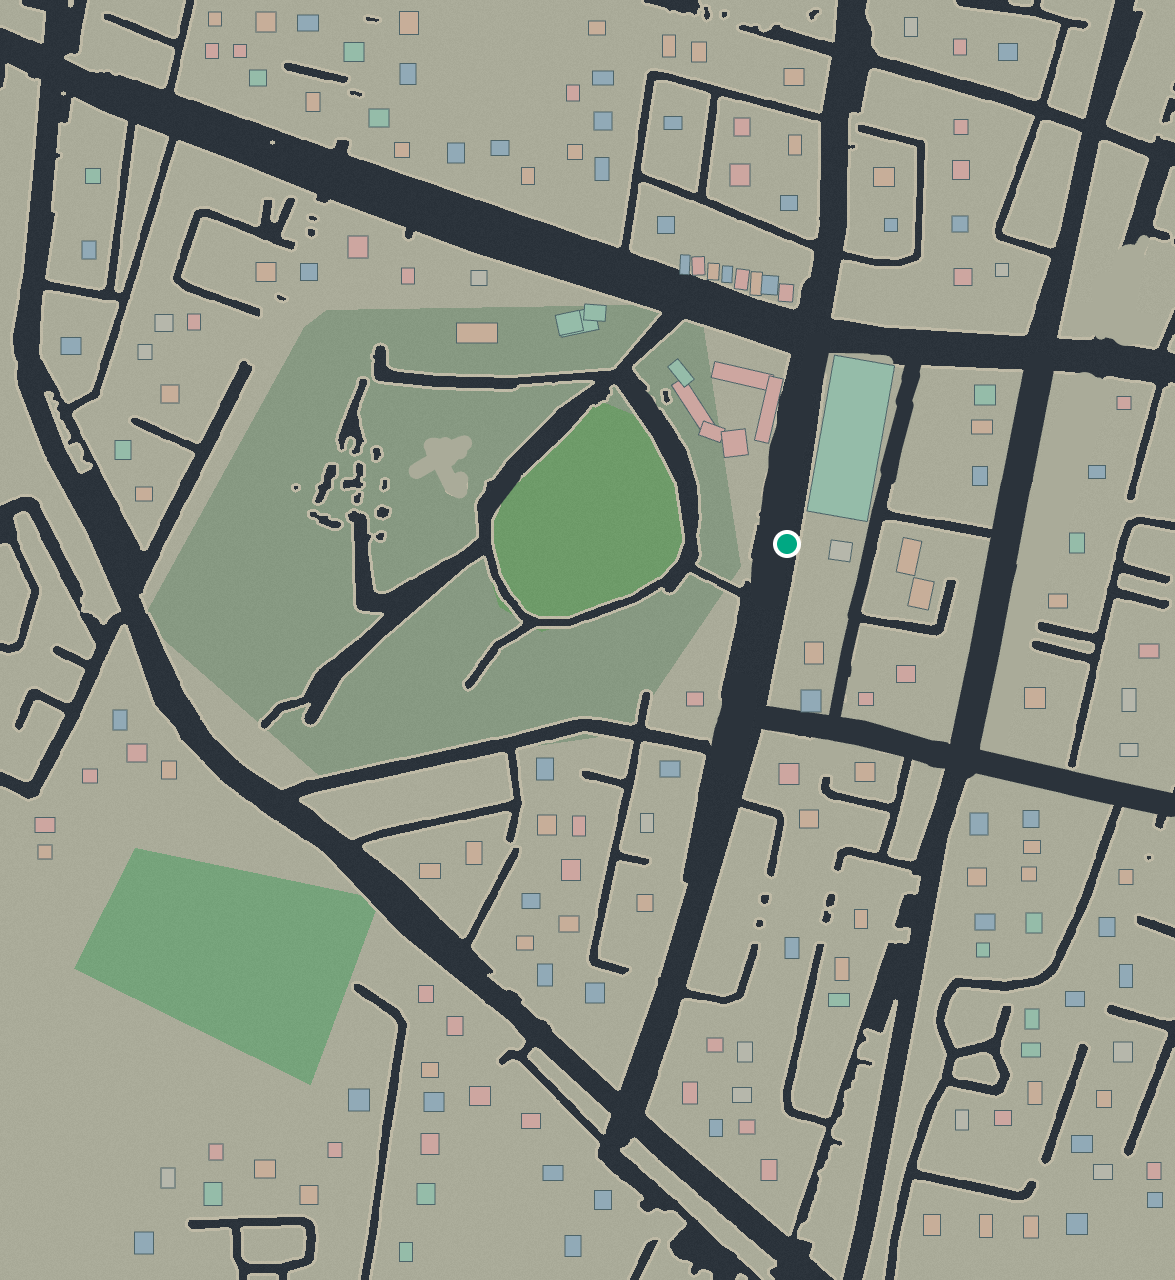
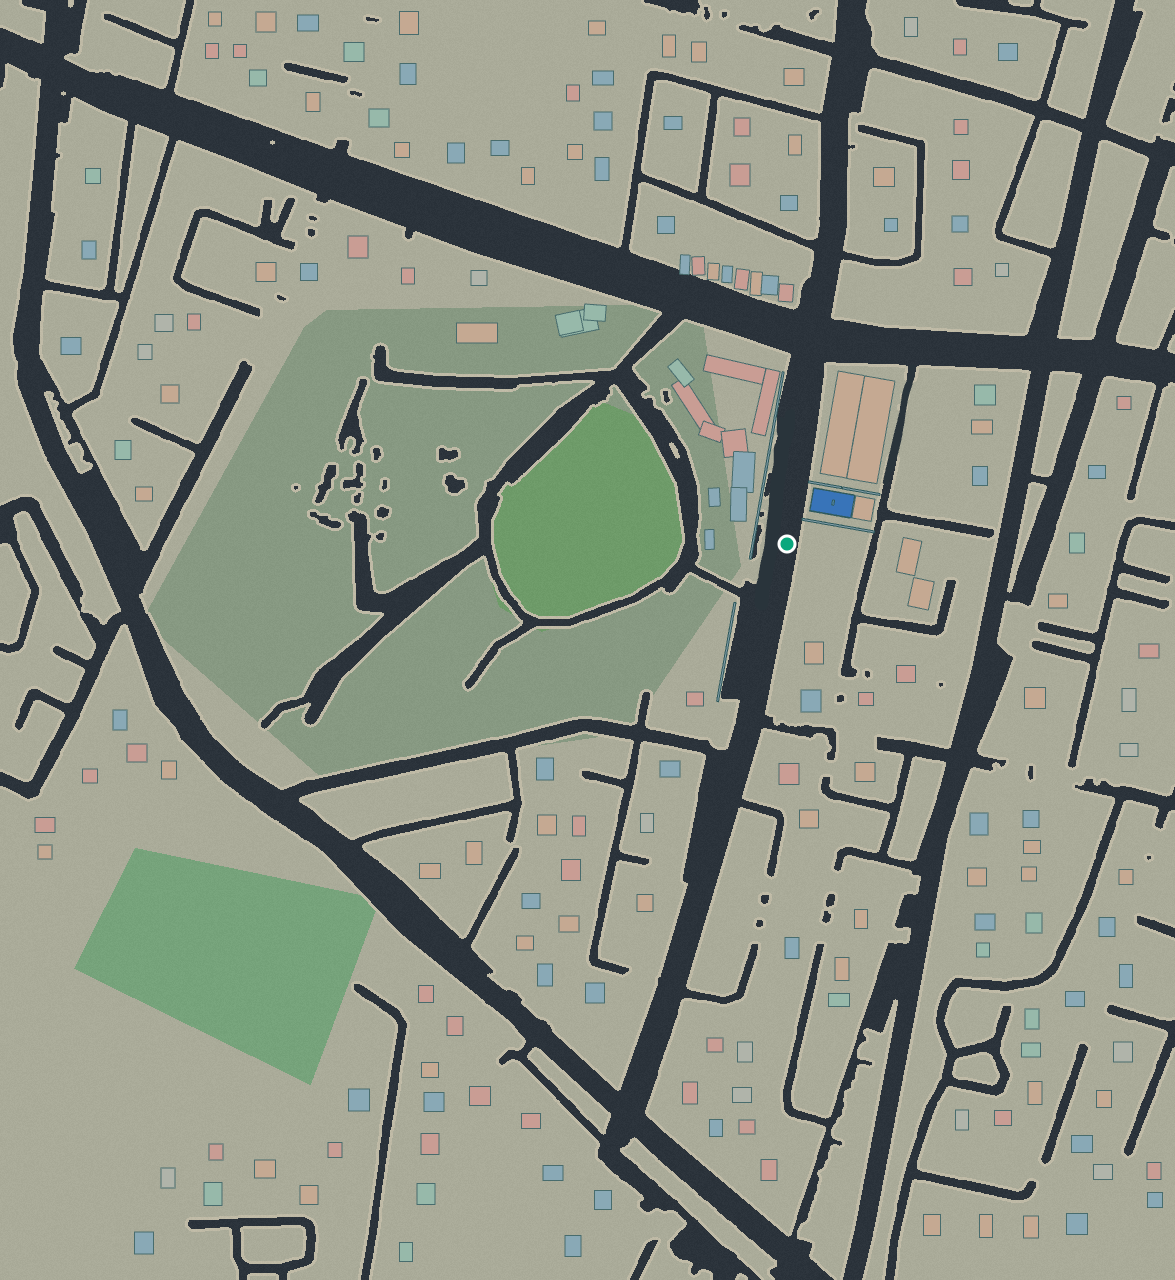
new update in map

Changed region(s): [[0.5821, 0.1875, 1.0, 0.6562], [0.337, 0.3438, 0.3983, 0.4062]]

diff --git a/game.js b/game.js
@@ -1,4 +1,4 @@
-/* NASHIK: FIRST DRIVE — BUILDING BLOCKOUT / v0.7
+/* NASHIK: FIRST DRIVE — MOBILE / OWNER STUDIO 2.0
    Road surfaces were traced from the user-supplied College Road map screenshot.
    This is screenshot-coordinate accurate, NOT verified survey/GPS geometry.
    It contains no Google basemap, imagery, tiles or logos.
@@ -10,7 +10,7 @@
   const $=id=>document.getElementById(id), cv=$('gl');
   const gl=cv.getContext('webgl2',{alpha:false,depth:true,antialias:true,powerPreference:'high-performance'});
   if(!gl){$('error').textContent='WebGL 2 is required. Try Chrome with hardware acceleration enabled.';$('error').hidden=false;return;}
-  const W=1175,H=1280,K=.65;
+  const W=1175,H=1280,K=.65,S=window.NashikShapes;
   let mapEdits={spawn:[787,544,180],roadStrokes:[]};
   const wx=u=>(u-W/2)*K, wz=v=>(v-H/2)*K;
   const uvx=x=>x/K+W/2, uvy=z=>z/K+H/2;
@@ -41,14 +41,39 @@
   const vao=gl.createVertexArray();gl.bindVertexArray(vao);const buf=gl.createBuffer();gl.bindBuffer(gl.ARRAY_BUFFER,buf);gl.bufferData(gl.ARRAY_BUFFER,new Float32Array(verts),gl.STATIC_DRAW);const ix=gl.createBuffer();gl.bindBuffer(gl.ELEMENT_ARRAY_BUFFER,ix);gl.bufferData(gl.ELEMENT_ARRAY_BUFFER,new Uint16Array(inds),gl.STATIC_DRAW);gl.enableVertexAttribArray(0);gl.vertexAttribPointer(0,3,gl.FLOAT,false,24,0);gl.enableVertexAttribArray(1);gl.vertexAttribPointer(1,3,gl.FLOAT,false,24,12);gl.bindVertexArray(vao);
   function cube(x,y,z,sx,sy,sz,col,yaw=0){gl.uniformMatrix4fv(U.model,false,transform(x,y,z,sx,sy,sz,yaw));gl.uniform3fv(U.color,col);gl.drawElements(gl.TRIANGLES,inds.length,gl.UNSIGNED_SHORT,0);}
   const colors=[[.79,.74,.66],[.66,.7,.75],[.76,.65,.59],[.59,.70,.67],[.74,.73,.69]], roof=[.49,.53,.56],dark=[.15,.20,.23],carBody=[.13,.70,.59],glass=[.45,.68,.72],wheel=[.09,.13,.16],headlight=[.94,.89,.71];
-  let blocks=[],loaded=false,groundTexture=null;
+  let blocks=[],assets=[],loaded=false,groundTexture=null;
+  const polyMeshCache=new Map();
+  function meshFor(shape,points){
+    const key=shape+JSON.stringify(points||[]);if(polyMeshCache.has(key))return polyMeshCache.get(key);
+    const poly=S.footprint(shape,points),tri=S.triangleIndices(poly);
+    if(tri.length<3)return null;
+    const vert=[],faces=[];
+    const push=(pos,nor)=>{vert.push(...pos,...nor);return vert.length/6-1;};
+    for(const idx of tri){const q=poly[idx];let v=push([q[0],.5,q[1]],[0,1,0]);faces.push(v);}
+    for(const idx of tri){const q=poly[idx];let v=push([q[0],-.5,q[1]],[0,-1,0]);faces.push(v);}
+    for(let i=0;i<poly.length;i++){let a=poly[i],b=poly[(i+1)%poly.length];const dx=b[0]-a[0],dz=b[1]-a[1],len=Math.hypot(dx,dz)||1,n=S.area(poly)>0?[dz/len,0,-dx/len]:[-dz/len,0,dx/len];
+      const start=vert.length/6;push([a[0],-.5,a[1]],n);push([b[0],-.5,b[1]],n);push([b[0],.5,b[1]],n);push([a[0],.5,a[1]],n);
+      faces.push(start,start+1,start+2,start,start+2,start+3);
+    }
+    const vao=gl.createVertexArray();gl.bindVertexArray(vao);
+    const vb=gl.createBuffer();gl.bindBuffer(gl.ARRAY_BUFFER,vb);gl.bufferData(gl.ARRAY_BUFFER,new Float32Array(vert),gl.STATIC_DRAW);
+    const eb=gl.createBuffer();gl.bindBuffer(gl.ELEMENT_ARRAY_BUFFER,eb);gl.bufferData(gl.ELEMENT_ARRAY_BUFFER,new Uint16Array(faces),gl.STATIC_DRAW);
+    gl.enableVertexAttribArray(0);gl.vertexAttribPointer(0,3,gl.FLOAT,false,24,0);
+    gl.enableVertexAttribArray(1);gl.vertexAttribPointer(1,3,gl.FLOAT,false,24,12);
+    gl.bindVertexArray(null);const mesh={vao,count:faces.length};polyMeshCache.set(key,mesh);return mesh;
+  }
+  function polygonBuilding(x,y,z,w,h,d,col,rot,mesh){if(!mesh)return;gl.disable(gl.CULL_FACE);gl.bindVertexArray(mesh.vao);gl.uniformMatrix4fv(U.model,false,transform(x,y,z,w,h,d,rot));gl.uniform3fv(U.color,col);gl.drawElements(gl.TRIANGLES,mesh.count,gl.UNSIGNED_SHORT,0);gl.bindVertexArray(vao);gl.enable(gl.CULL_FACE);}
+  function buildingSolid(b,y,h,col,extra=0){if(b.shape==='rect'||b.shape==='square')cube(b.x,y,b.z,b.w+extra,h,b.d+extra,col,b.yaw);
+    else polygonBuilding(b.x,y,b.z,b.w+extra,h,b.d+extra,col,b.yaw,b.mesh);}
+
   const img=new Image();
   const mapPromise=fetch('map_edits.json?v='+Date.now()).then(r=>r.ok?r.json():{}).catch(()=>({}));
   const blocksPromise=fetch('blocks.json?v='+Date.now()).then(r=>r.ok?r.json():Promise.reject(new Error('Building data missing'))).then(data=>{
-    blocks=data.map(([u,v,w,d,h,c,angle=0])=>({x:wx(u),z:wz(v),w:w*K,d:d*K,h,c,yaw:angle*rad}));
+    blocks=data.map(([u,v,w,d,h,c,angle=0,floors,kind='mixed',floorHeight,shape='rect',points=[]])=>({x:wx(u),z:wz(v),w:w*K,d:d*K,h,c,yaw:angle*rad,floors:Math.max(1,Math.round(floors||h/3.2)),kind,floorHeight:floorHeight||3.2,shape,points,mesh:(shape==='rect'||shape==='square')?null:meshFor(shape,points)}));
   });
+  const assetsPromise=fetch('assets.json?v='+Date.now()).then(r=>r.ok?r.json():[]).then(data=>{assets=Array.isArray(data)?data:[]});
   const imagePromise=new Promise((resolve,reject)=>{img.onload=resolve;img.onerror=()=>reject(new Error('terrain.png missing'));img.src='terrain.png';});
-  Promise.all([mapPromise,blocksPromise,imagePromise]).then(([edits])=>{
+  Promise.all([mapPromise,blocksPromise,assetsPromise,imagePromise]).then(([edits])=>{
     if(edits&&typeof edits==='object')mapEdits={...mapEdits,...edits};
     const paint=document.createElement('canvas');paint.width=W;paint.height=H;const ctx=paint.getContext('2d');
     ctx.drawImage(img,0,0,W,H);
@@ -78,23 +103,78 @@
     if(Math.abs(x-b.x)>Math.max(b.w,b.d)+pad||Math.abs(z-b.z)>Math.max(b.w,b.d)+pad)continue;
     const co=Math.cos(b.yaw),si=Math.sin(b.yaw),dx=x-b.x,dz=z-b.z;
     const localX=co*dx-si*dz,localZ=si*dx+co*dz;
-    if(Math.abs(localX)<b.w*.5+pad&&Math.abs(localZ)<b.d*.5+pad)return true;
+    if(b.shape==='rect'||b.shape==='square'){if(Math.abs(localX)<b.w*.5+pad&&Math.abs(localZ)<b.d*.5+pad)return true;}else if(S.pointInside(localX/b.w,localZ/b.d,S.footprint(b.shape,b.points)))return true;
   }return false;}
   function insideBounds(x,z){return Math.abs(x)<W*K*.5-5 && Math.abs(z)<H*K*.5-5;}
   function canMove(x,z,pad){return insideBounds(x,z)&&!hitBuilding(x,z,pad);}
-  // Static fuel station landmark is a deliberately simple block beside the starting point.
-  function drawPump(){const x=wx(815),z=wz(541);
-    cube(x,2.65,z,24,0.65,15,[.17,.39,.70]);cube(x,2.20,z,24,.18,15,[.98,.77,.28]);
-    for(const dx of [-9,9])for(const dz of [-5,5])cube(x+dx,1.2,z+dz,.65,2.5,.65,[.82,.82,.77]);
-    for(const dz of [-4,4])cube(x,0.84,z+dz,1.4,1.65,.9,[.30,.43,.57]);
+  // Every street object comes from editable assets.json. No hardcoded petrol pump.
+  const colorMat=[[.20,.44,.74],[.16,.52,.43],[.69,.46,.34],[.66,.60,.50],[.54,.63,.71]];
+  function localPart(cx,cz,rot,lx,lz,h,sx,sy,sz,col){
+    const co=Math.cos(rot),si=Math.sin(rot);
+    cube(cx+co*lx+si*lz,h,cz-si*lx+co*lz,sx,sy,sz,col,rot);
+  }
+  function drawAsset(a){
+    const x=wx(a.x),z=wz(a.y),r=(a.rot||0)*rad,w=Math.max(.2,a.w*K),d=Math.max(.2,a.d*K),h=Math.max(.2,a.h);
+    const mat=colorMat[a.color]||colorMat[0];
+    if(a.type==='forecourt'){
+      cube(x,.07,z,w,.14,d,[.65,.67,.63],r);
+      cube(x,.151,z,Math.max(.1,w-.4),.014,Math.max(.1,d-.4),[.75,.74,.67],r);
+    }else if(a.type==='canopy'){
+      localPart(x,z,r,0,0,h,w,.40,d,[.18,.39,.70]);
+      localPart(x,z,r,0,0,h-.28,w,.16,d,[.96,.77,.22]);
+      for(const dx of [-w*.39,w*.39])for(const dz of [-d*.35,d*.35])
+        localPart(x,z,r,dx,dz,(h-.55)/2,.38,h-.65,.38,[.82,.84,.82]);
+    }else if(a.type==='dispenser'){
+      cube(x,h/2,z,Math.max(1,w),h,Math.max(.6,d),[.20,.34,.51],r);
+      cube(x,h*.70,z,Math.max(.9,w+.1),h*.20,Math.max(.7,d+.15),[.90,.92,.93],r);
+      cube(x,h*.48,z,Math.max(.3,w+.14),h*.10,Math.max(.5,d+.12),[.86,.70,.28],r);
+    }else if(a.type==='pylon'){
+      cube(x,h/2,z,w*.44,h,d*.6,[.83,.85,.84],r);
+      cube(x,h*.78,z,w,h*.32,d,[.18,.40,.69],r);
+      cube(x,h*.79,z,w+.04,h*.10,d+.06,[.94,.75,.24],r);
+    }else if(a.type==='tree'){
+      const trunk=h*.55, canopy=Math.max(.8,w);
+      cube(x,trunk/2,z,Math.max(.22,canopy*.095),trunk,Math.max(.22,canopy*.095),[.39,.30,.20]);
+      const foliage=a.color===1?[.20,.39,.30]:a.color===2?[.31,.49,.29]:[.23,.45,.32];
+      const cy=trunk+(h-trunk)*.45;
+      cube(x,cy,z,canopy*.62,h-trunk,canopy*.65,foliage);
+      cube(x+canopy*.23,cy-.20,z,canopy*.57,(h-trunk)*.74,canopy*.53,foliage);
+      cube(x-canopy*.23,cy-.28,z+canopy*.18,canopy*.53,(h-trunk)*.76,canopy*.47,foliage);
+    }else if(a.type==='palm'){
+      cube(x,h*.45,z,.25,h*.9,.25,[.48,.36,.24]);
+      for(let i=0;i<6;i++){const ang=i*Math.PI/3;
+        cube(x+Math.cos(ang)*w*.28,h*.93,z+Math.sin(ang)*w*.28,w*.7,.17,.46,[.23,.50,.30],ang);
+      }
+    }else if(a.type==='bush'){
+      cube(x,.25,z,w*.65,.50,d*.65,[.18,.41,.24],r);cube(x,h*.55,z,w,h*.8,d,[.26,.51,.30],r);
+    }else if(a.type==='park'){
+      polygonBuilding(x,.045,z,w,.09,d,[.28,.47,.28],r,meshFor(a.shape||'rect',[]));
+    }else if(a.type==='pond'){
+      polygonBuilding(x,.045,z,w,.09,d,[.18,.52,.69],r,meshFor(a.shape||'circle',[]));
+    }else if(a.type==='parking'){
+      polygonBuilding(x,.045,z,w,.09,d,[.30,.35,.36],r,meshFor(a.shape||'rect',[]));
+      for(let i=-2;i<=2;i++)localPart(x,z,r,i*w/6,0,.10,.08,.03,d*.82,[.83,.84,.79]);
+    }else if(a.type==='wall'||a.type==='fence'){
+      if(a.type==='wall')cube(x,h*.5,z,w,h,Math.min(d,1.7),[.66,.69,.65],r);
+      else{cube(x,h*.78,z,w,.13,.15,[.43,.49,.47],r);cube(x,h*.35,z,w,.13,.15,[.43,.49,.47],r);
+        for(let j=-2;j<=2;j++)localPart(x,z,r,j*w*.22,0,h*.5,.15,h,.15,[.47,.52,.50]);}
+    }else if(a.type==='billboard'){
+      cube(x,h*.50,z,.20,h,.20,[.42,.44,.46],r);cube(x,h*.87,z,w,h*.23,d,[.20,.35,.44],r);
+    }else if(a.type==='bench'){
+      cube(x,.57,z,w,.18,d,[.43,.31,.24],r);cube(x,1.05,z-d*.38,w,.9,.13,[.43,.31,.24],r);
+    }else if(a.type==='lamp'){
+      cube(x,h*.5,z,.22,h,.22,[.48,.53,.54]);
+      cube(x+.65,h,z,1.6,.18,.3,[.41,.47,.50]);
+      cube(x+1.15,h-.15,z,.8,.12,.4,[.95,.88,.65]);
+    }
   }
   function drawCar(){const x=car.x,z=car.z,a=car.yaw;const s=Math.sin(a),c=Math.cos(a);
     const part=(side,forward,height,sw,sh,sd,color)=>{const X=x+c*side+s*forward,Z=z-s*side+c*forward;cube(X,height,Z,sw,sh,sd,color,a);};
-    part(0,0,.85,2.15,1.2,4.6,carBody);part(0,-.30,1.66,1.80,.70,2.75,carBody);part(0,.58,1.76,1.80,.52,.13,glass);
+    part(0,0,.85,2.15,1.2,4.6,carBody);part(0,-.30,1.41,1.80,.44,2.75,carBody);part(0,.58,1.47,1.78,.24,.13,glass);
     for(const side of [-1,1])for(const f of [-1.42,1.40])part(side*1.12,f,.44,.36,.79,.73,wheel);
     for(const side of [-.73,.73]){part(side,2.33,.85,.48,.23,.1,headlight);part(side,-2.34,.85,.45,.24,.10,[.82,.15,.13]);}
   }
-  function drawPerson(){const x=person.x,z=person.z;cube(x,.91,z,.67,1.23,.45,[.23,.40,.50],person.yaw);cube(x,1.80,z,.47,.52,.45,[.72,.52,.42],person.yaw);for(const d of [-.22,.22])cube(x+d,.32,z,.18,.6,.22,[.22,.25,.30]);}
+  function drawPerson(){const x=person.x,z=person.z;cube(x,.82,z,.63,1.08,.45,[.23,.40,.50],person.yaw);cube(x,1.55,z,.42,.42,.43,[.72,.52,.42],person.yaw);for(const d of [-.22,.22])cube(x+d,.32,z,.18,.6,.22,[.22,.25,.30]);}
   function enterExit(){if(!playing||paused)return;if(car.driving){if(Math.abs(car.v)>2)return;car.driving=false;const dx=Math.cos(car.yaw)*3.1,dz=-Math.sin(car.yaw)*3.1;person.x=car.x+dx;person.z=car.z+dz;person.yaw=car.yaw;}
     else if(Math.hypot(person.x-car.x,person.z-car.z)<5){car.driving=true;}
     $('speed-panel').classList.toggle('hidden',!car.driving);$('drive-status').textContent=car.driving?'DRIVING':'WALKING';}
@@ -138,10 +218,17 @@
     gl.useProgram(p);gl.uniformMatrix4fv(U.viewProj,false,vp);gl.uniform3f(U.cameraPos,camera.x,camera.y,camera.z);gl.bindVertexArray(vao);gl.activeTexture(gl.TEXTURE0);gl.bindTexture(gl.TEXTURE_2D,groundTexture);gl.uniform1i(U.groundTex,0);
     gl.uniform1f(U.isGround,1);cube(0,-.12,0,W*K,.20,H*K,[1,1,1]);gl.uniform1f(U.isGround,0);
     for(const b of blocks){if(Math.abs(b.x-x)>175||Math.abs(b.z-z)>175)continue;
-      const c=colors[b.c];cube(b.x,b.h*.5,b.z,b.w,b.h,b.d,c,b.yaw);
-      if(b.h>13)cube(b.x,b.h+.10,b.z,b.w+.27,.18,b.d+.27,roof,b.yaw);
+      const c=colors[b.c]||colors[0];buildingSolid(b,b.h*.5,b.h,c);
+      if(b.h>13)buildingSolid(b,b.h+.10,.18,roof,.18);
+      // Light floor-slab bands make floor count readable without high-poly models.
+      if(Math.hypot(b.x-x,b.z-z)<85 && b.floors>1){
+        const step=b.h/b.floors;
+        for(let level=1;level<b.floors&&level<14;level++){
+          buildingSolid(b,level*step,.105,[.46,.48,.46],.065);
+        }
+      }
     }
-    if(Math.hypot(wx(815)-x,wz(541)-z)<210)drawPump();
+    for(const a of assets){if(Math.hypot(wx(a.x)-x,wz(a.y)-z)<160)drawAsset(a);}
     drawCar();if(!car.driving)drawPerson();
   }
   function loop(t){const dt=Math.min(.042,(t-last)/1000||.016);last=t;update(dt);render();requestAnimationFrame(loop);}requestAnimationFrame(loop);

diff --git a/shapes.js b/shapes.js
@@ -1,0 +1,25 @@
+/* Shared geometry: part of the public game, contains no owner controls. */
+(function(){'use strict';
+const presets={
+ rect:[[-.5,-.5],[.5,-.5],[.5,.5],[-.5,.5]],
+ square:[[-.5,-.5],[.5,-.5],[.5,.5],[-.5,.5]],
+ triangle:[[0,-.5],[.5,.5],[-.5,.5]],
+ hex:[[-.25,-.5],[.25,-.5],[.5,0],[.25,.5],[-.25,.5],[-.5,0]],
+ l:[[-.5,-.5],[.5,-.5],[.5,-.14],[-.12,-.14],[-.12,.5],[-.5,.5]],
+ u:[[-.5,-.5],[.5,-.5],[.5,.5],[.18,.5],[.18,-.13],[-.18,-.13],[-.18,.5],[-.5,.5]],
+ t:[[-.5,-.5],[.5,-.5],[.5,-.14],[.18,-.14],[.18,.5],[-.18,.5],[-.18,-.14],[-.5,-.14]],
+ oval:[],circle:[]
+};
+for(const [key,n] of [['circle',24],['oval',24]])presets[key]=Array.from({length:n},(_,i)=>{const a=Math.PI*2*i/n;return [Math.cos(a)*.5,Math.sin(a)*.5]});
+function footprint(kind,points){if(kind==='custom'&&Array.isArray(points)&&points.length>=3)return points;return presets[kind]||presets.rect;}
+function bounds(points){return points.reduce((o,p)=>({minx:Math.min(o.minx,p[0]),maxx:Math.max(o.maxx,p[0]),miny:Math.min(o.miny,p[1]),maxy:Math.max(o.maxy,p[1])}),{minx:Infinity,maxx:-Infinity,miny:Infinity,maxy:-Infinity});}
+function worldPoints(o){let x,y,w,d,rot,shape,custom;if(Array.isArray(o)){x=o[0];y=o[1];w=o[2];d=o[3];rot=o[6];shape=o[10];custom=o[11];}else({x,y,w,d,rot=0,shape='rect',points:custom}=o);const a=(rot||0)*Math.PI/180,c=Math.cos(a),s=Math.sin(a);return footprint(shape||'rect',custom||[]).map(([u,v])=>[x+c*(u*w)+s*(v*d),y-s*(u*w)+c*(v*d)]);}
+function pointInside(x,y,poly){let yes=false;for(let i=0,j=poly.length-1;i<poly.length;j=i++){const a=poly[i],b=poly[j];if((a[1]>y)!==(b[1]>y)&&x<(b[0]-a[0])*(y-a[1])/(b[1]-a[1])+a[0])yes=!yes;}return yes;}
+function area(p){let r=0;for(let i=0;i<p.length;i++){let a=p[i],b=p[(i+1)%p.length];r+=a[0]*b[1]-b[0]*a[1];}return r*.5}
+function triangleIndices(raw){const p=raw.slice(),V=p.map((_,i)=>i),tri=[],isCCW=area(p)>0;let guard=0;
+function cross(a,b,c){return(b[0]-a[0])*(c[1]-a[1])-(b[1]-a[1])*(c[0]-a[0])}
+function inTri(pt,a,b,c){let p1=cross(pt,a,b),p2=cross(pt,b,c),p3=cross(pt,c,a),neg=p1<0||p2<0||p3<0,pos=p1>0||p2>0||p3>0;return!(neg&&pos)}
+while(V.length>3&&guard++<100){let clipped=false;for(let k=0;k<V.length;k++){const i=V[(k+V.length-1)%V.length],j=V[k],l=V[(k+1)%V.length],a=p[i],b=p[j],c=p[l];const cr=cross(a,b,c);if(isCCW?cr<=1e-7:cr>=-1e-7)continue;if(V.some(z=>z!==i&&z!==j&&z!==l&&inTri(p[z],a,b,c)))continue;tri.push(i,j,l);V.splice(k,1);clipped=true;break;}if(!clipped)break;}
+if(V.length===3)tri.push(...V);return tri;}
+window.NashikShapes={presets,footprint,worldPoints,pointInside,triangleIndices,area,bounds};
+})();

diff --git a/index.html b/index.html
@@ -32,5 +32,5 @@
 </div>
 <div id="map-overlay" class="hidden"><div class="map-modal"><div class="map-header"><div><strong>COLLEGE ROAD / BLOCKOUT</strong><p>Free-roam map, approximate screenshot-derived geometry</p></div><button id="close-map">CLOSE ✕</button></div><div class="map-frame"><img src="map_preview.png" alt="Road layout"><i id="map-position"></i></div><div class="map-footer"><span>● YOUR POSITION</span><span id="location-text">MAP POSITION</span></div></div></div>
 <div id="rotate-hint" hidden><span>↻</span><strong>Rotate your phone</strong><small>Landscape gives you more room to drive.</small><button id="hint-dismiss">Continue in portrait</button></div>
-<script src="game.js"></script>
+<script src="shapes.js"></script><script src="game.js"></script>
 </body></html>
